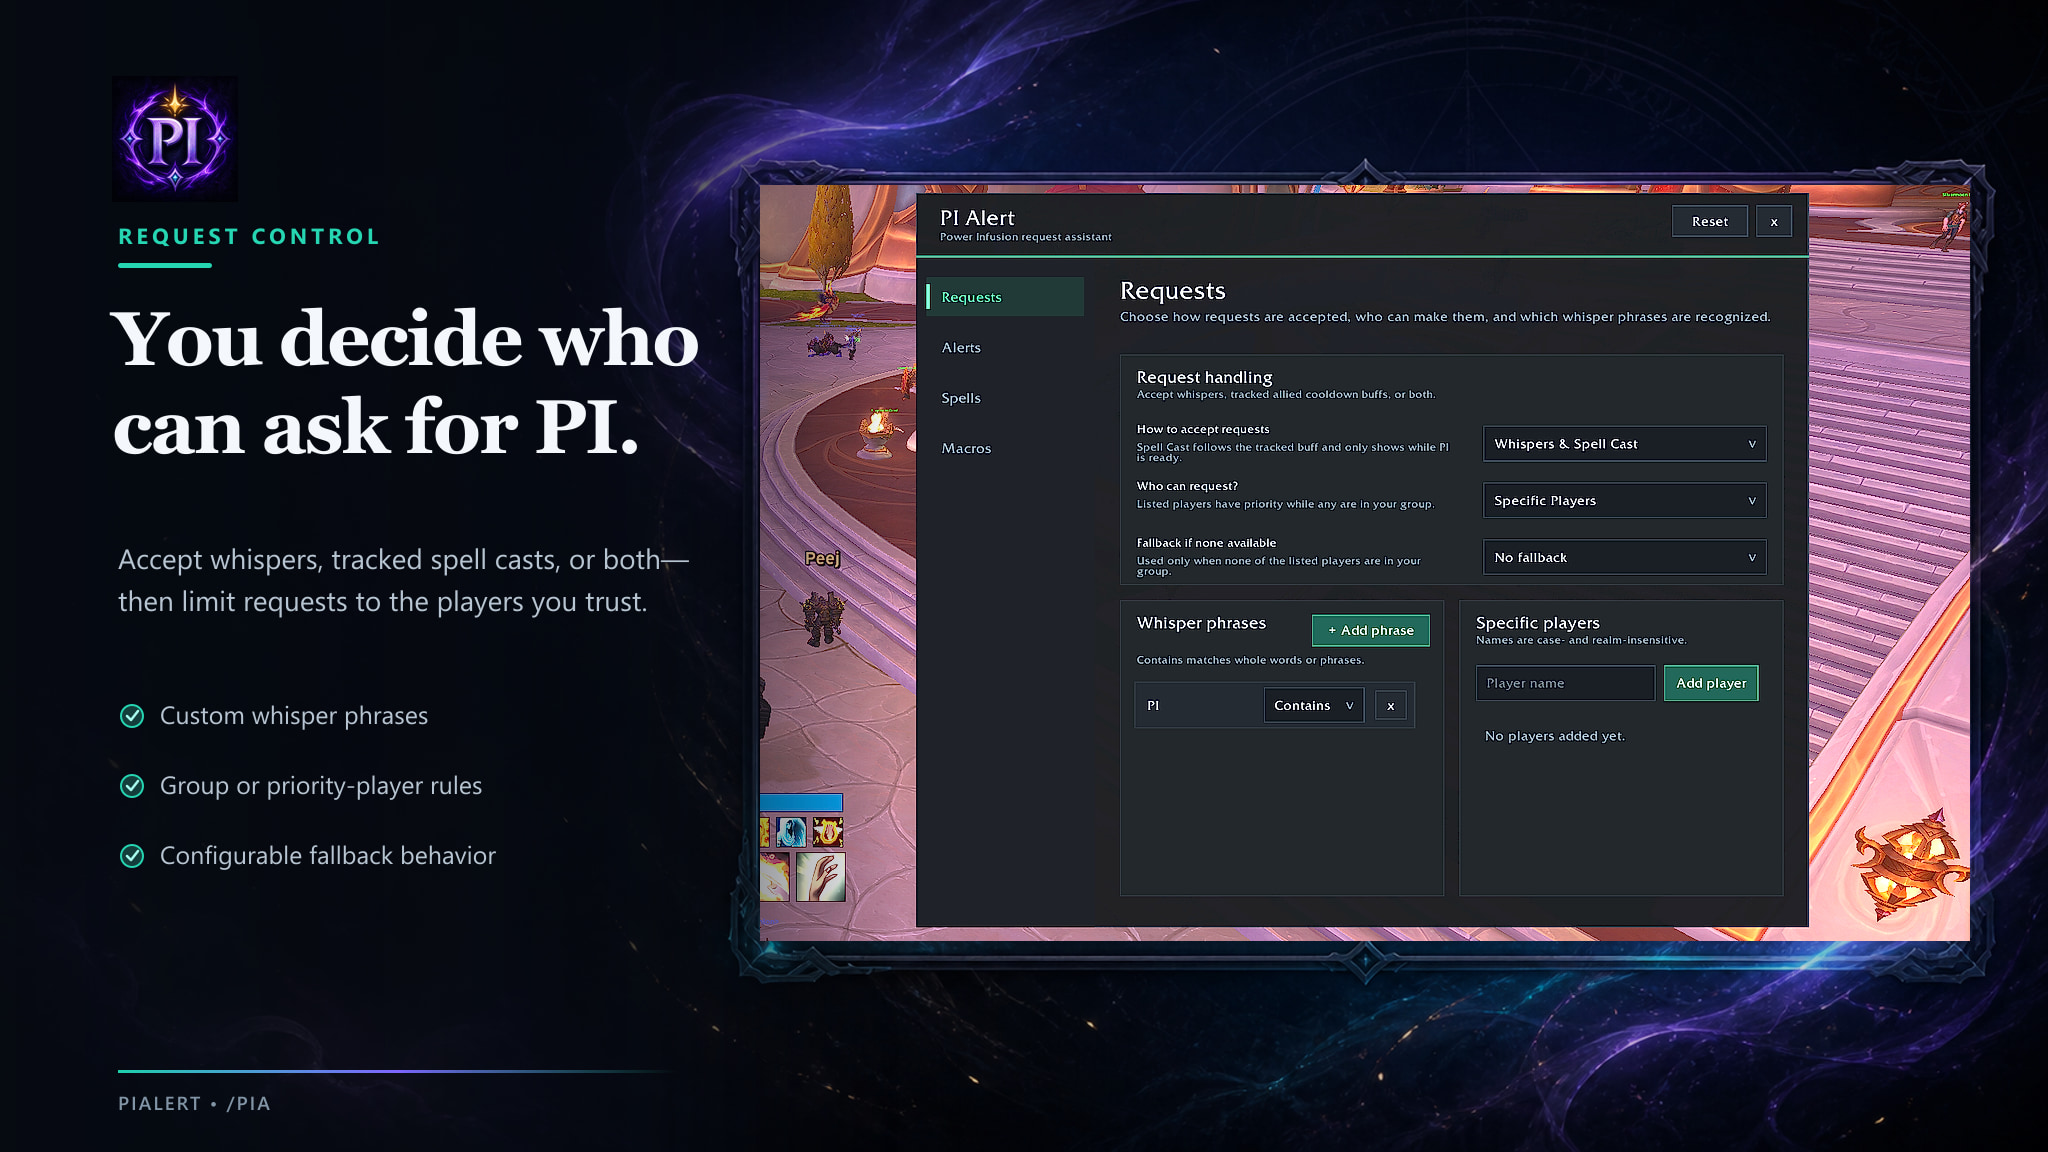
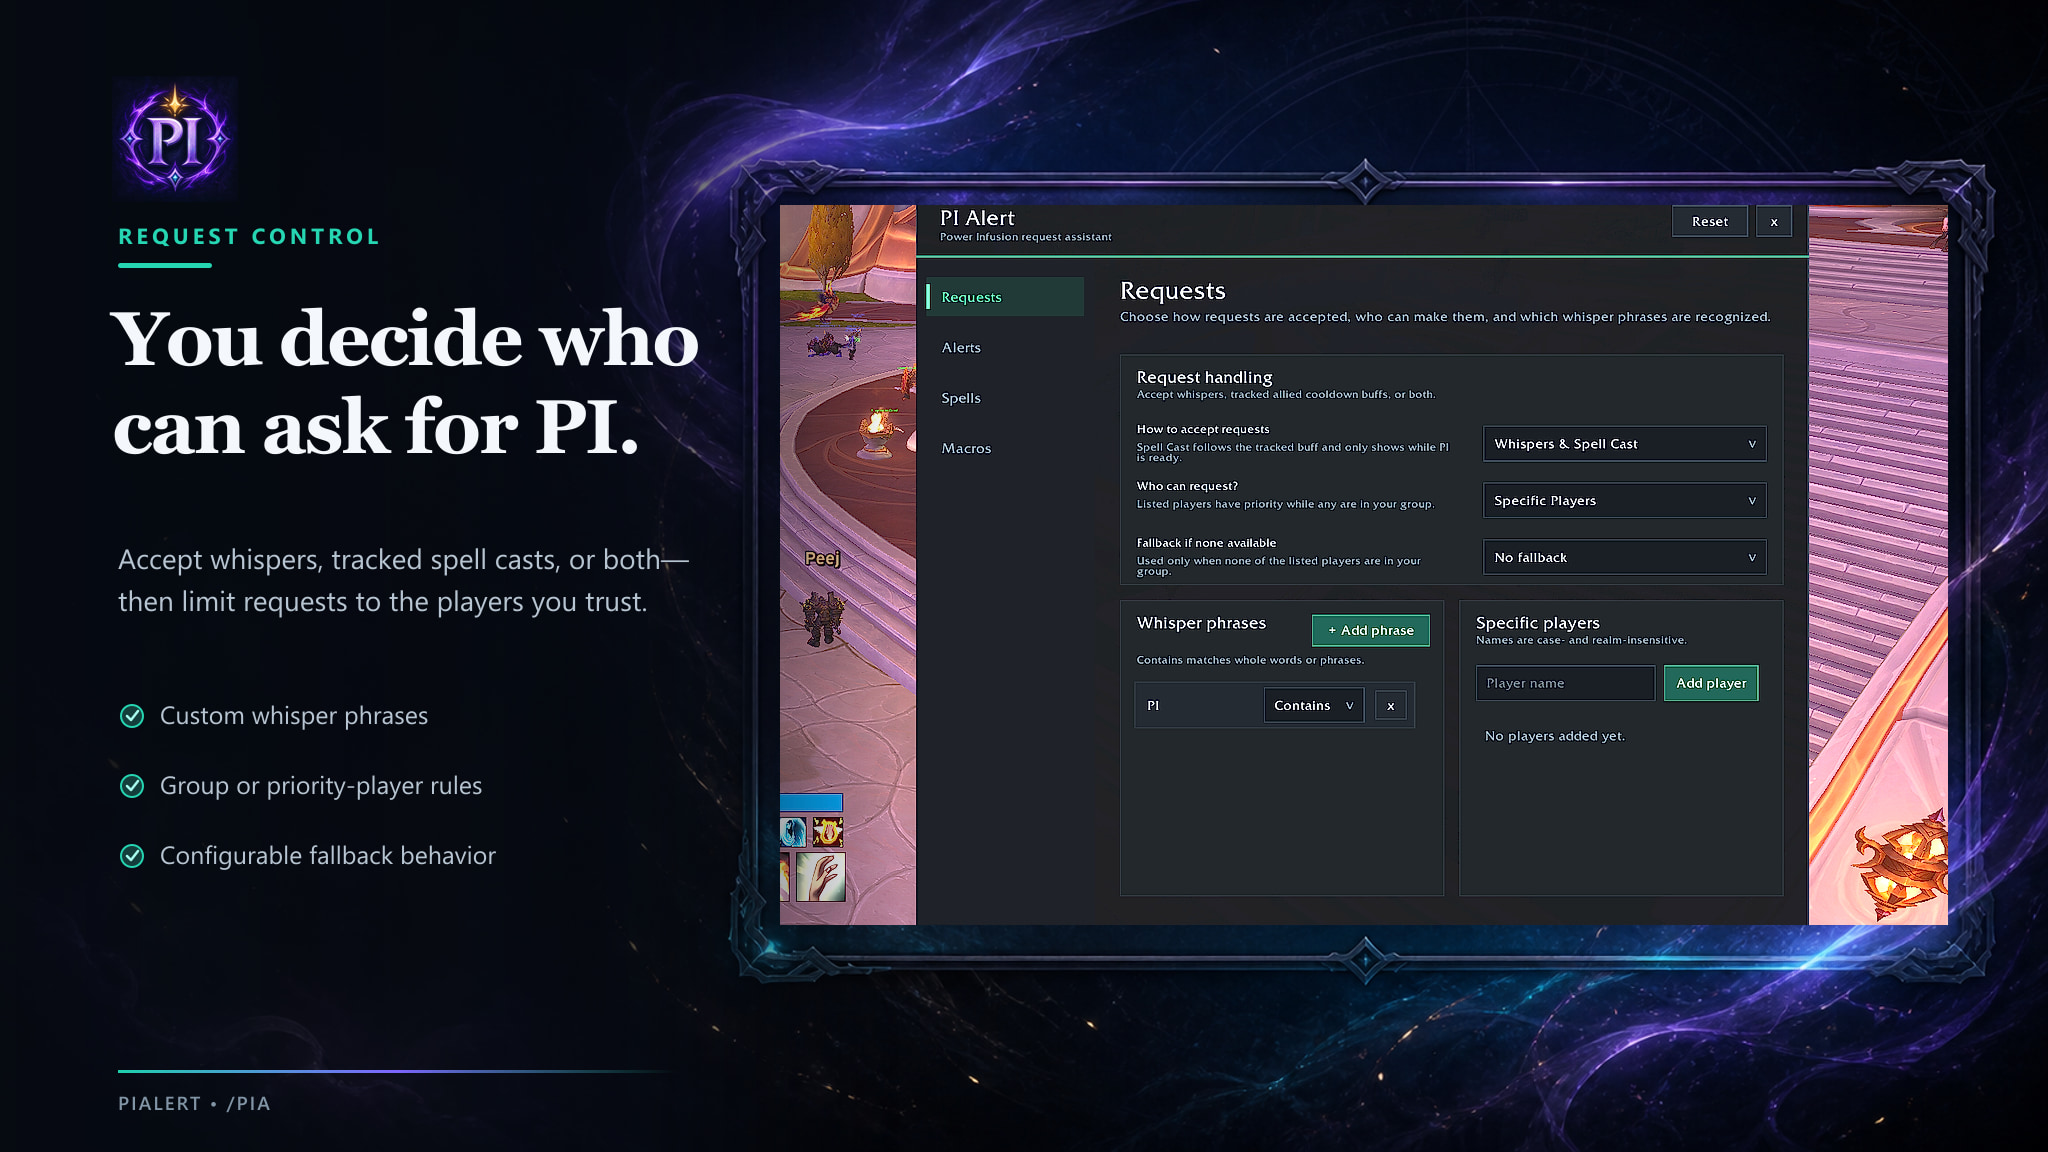
Layer screenshots beneath gallery frame
Derive a transparent-center overlay from the generated backdrop and composite it above each in-game screenshot so the ornamental frame remains intact. Screen-blend the PI mark into the dark background to remove its pasted-on black square.

diff --git a/Branding/CurseForge/build-gallery.js b/Branding/CurseForge/build-gallery.js
@@ -169,6 +169,25 @@ function overlaySvg(slide) {
   `);
 }
 
+let frameOverlayPromise;
+
+function frameOverlayBuffer() {
+  if (!frameOverlayPromise) {
+    const mask = Buffer.from(`
+      <svg width="${WIDTH}" height="${HEIGHT}" xmlns="http://www.w3.org/2000/svg">
+        <path d="M 0 0 H ${WIDTH} V ${HEIGHT} H 0 Z M 780 205 H 1948 V 925 H 780 Z" fill="white" fill-rule="evenodd"/>
+      </svg>
+    `);
+    frameOverlayPromise = sharp(BACKGROUND)
+      .resize(WIDTH, HEIGHT, { fit: "cover" })
+      .ensureAlpha()
+      .composite([{ input: mask, blend: "dest-in" }])
+      .png()
+      .toBuffer();
+  }
+  return frameOverlayPromise;
+}
+
 async function screenshotBuffer(slide) {
   const input = path.join(SCREENSHOTS, slide.source);
   const { width, height } = slide.shot;
@@ -186,6 +205,7 @@ async function screenshotBuffer(slide) {
 
 async function buildSlide(slide) {
   const screenshot = await screenshotBuffer(slide);
+  const frameOverlay = await frameOverlayBuffer();
   const logo = await sharp(LOGO)
     .resize(126, 126, { fit: "cover" })
     .png()
@@ -196,8 +216,9 @@ async function buildSlide(slide) {
     .modulate({ brightness: 0.84, saturation: 0.9 })
     .composite([
       { input: screenshot, left: slide.shot.x, top: slide.shot.y },
+      { input: frameOverlay, left: 0, top: 0 },
       { input: overlaySvg(slide), left: 0, top: 0 },
-      { input: logo, left: 112, top: 76 },
+      { input: logo, left: 112, top: 76, blend: "screen" },
     ])
     .jpeg({ quality: 92, chromaSubsampling: "4:4:4", mozjpeg: true })
     .toFile(path.join(OUT, slide.output));
